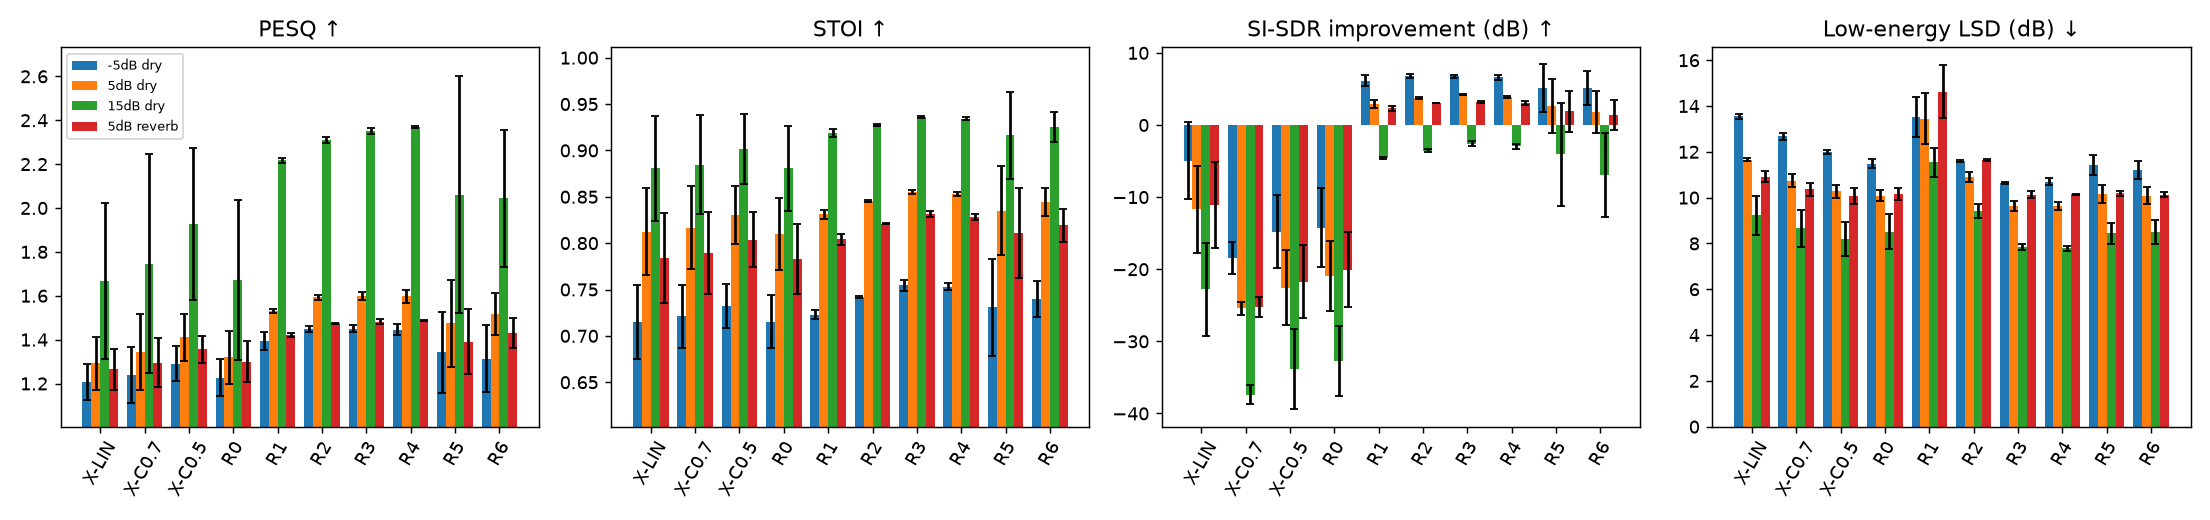
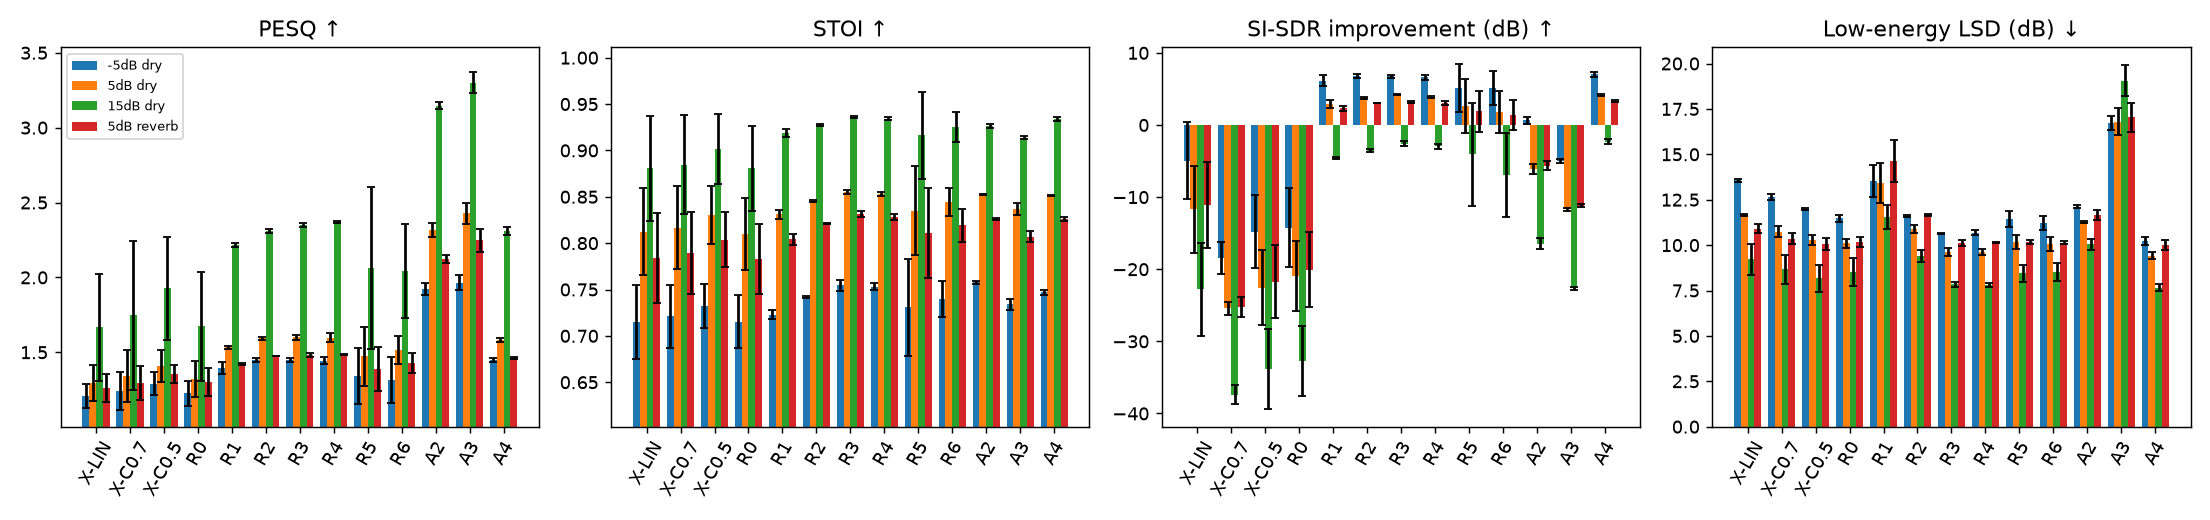
Speech enhancement loss-function evaluation

diff --git a/code/analyze.py b/code/analyze.py
@@ -1,11 +1,13 @@
 import json, glob, os, numpy as np, pandas as pd
 import matplotlib; matplotlib.use("Agg"); import matplotlib.pyplot as plt
 R = os.path.dirname(os.path.dirname(os.path.abspath(__file__))) + "/results"
-ORDER = ["X-LIN", "X-C0.7", "X-C0.5", "R0", "R1", "R2", "R3", "R4", "R5", "R6"]
+ORDER = ["X-LIN", "X-C0.7", "X-C0.5", "R0", "R1", "R2", "R3", "R4", "R5", "R6", "A2", "A3", "A4"]
 DESC = {"X-LIN": "linear magnitude MSE", "X-C0.7": "compressed mag c=0.7", "X-C0.5": "compressed mag c=0.5",
         "R0": "compressed mag c=0.3", "R1": "R0 + compressed complex", "R2": "R1 + multi-res (5/10/20/40ms)",
         "R3": "R2 + over-suppression pen.", "R4": "R3 + loudness (A-wt) weighting", "R5": "R3 + SI-SNR",
-        "R6": "R3 + loudness + SI-SNR"}
+        "R6": "R3 + loudness + SI-SNR",
+        "A2": "R3 + diff. PESQ (w=0.1) [A1+PESQ low]", "A3": "R3 + diff. PESQ (w=1.0) [A1+PESQ high]",
+        "A4": "R3 + MetricGAN PESQ disc. (w=0.05)"}
 MET = ["PESQ", "PESQ_in", "STOI", "STOI_in", "SI-SDRi", "LE-LSD", "LE-LSD_in"]
 rows = []
 for f in sorted(glob.glob(R + "/runs/*.json")):
@@ -46,7 +48,19 @@ for l in ORDER:
             s = max(g.loc[(l, c), (m, "std")], g.loc[("R0", c), (m, "std")])
             cells.append(f"{d:+.2f}{' *' if abs(d) > 2 * s else ''}")
     md.append(f"| {l} | " + " | ".join(cells) + " |")
-md.append("\n`*` = exceeds 2× seed std.")
+md.append("\n## PESQ-loss arms (Section 4.8): difference vs. R3 (= A1, no PESQ term)\n")
+md.append("A0 = R1, A1 = R3. Hypotheses: H1 PESQ rises; H2 SI-SDRi and low-energy retention fall as PESQ weight rises.\n")
+md.append("| Arm | " + " | ".join(f"{c} ΔPESQ" for c in conds) + " | " + " | ".join(f"{c} ΔSI-SDRi" for c in conds) + " | " + " | ".join(f"{c} ΔLE-LSD" for c in conds) + " |\n|---|" + "---|" * (3 * len(conds)))
+for l in ["A2", "A3", "A4"]:
+    if l not in nseed.index: continue
+    cells = []
+    for m in ["PESQ", "SI-SDRi", "LE-LSD"]:
+        for c in conds:
+            d = g.loc[(l, c), (m, "mean")] - g.loc[("R3", c), (m, "mean")]
+            sd = max(g.loc[(l, c), (m, "std")], g.loc[("R3", c), (m, "std")])
+            cells.append(f"{d:+.2f}{' *' if abs(d) > 2 * sd else ''}")
+    md.append(f"| {l} | " + " | ".join(cells) + " |")
+md.append("\n`*` = exceeds 2x the larger seed std (rough screen, n=3).")
 open(R + "/RESULTS.md", "w").write("\n".join(md)); print("\n".join(md))
 
 fig, ax = plt.subplots(1, 4, figsize=(17, 4))

diff --git a/results/RESULTS.md b/results/RESULTS.md
@@ -1,6 +1,6 @@
 # Loss-function evaluation results
 
-Seeds per loss: {'R0': np.int64(3), 'R1': np.int64(3), 'R2': np.int64(3), 'R3': np.int64(3), 'R4': np.int64(3), 'R5': np.int64(3), 'R6': np.int64(3), 'X-C0.5': np.int64(3), 'X-C0.7': np.int64(3), 'X-LIN': np.int64(3)}. Values are mean ± std **across seeds** (each seed's value is the mean over 60 test utterances).
+Seeds per loss: {'A2': np.int64(3), 'A3': np.int64(3), 'A4': np.int64(3), 'R0': np.int64(3), 'R1': np.int64(3), 'R2': np.int64(3), 'R3': np.int64(3), 'R4': np.int64(3), 'R5': np.int64(3), 'R6': np.int64(3), 'X-C0.5': np.int64(3), 'X-C0.7': np.int64(3), 'X-LIN': np.int64(3)}. Values are mean ± std **across seeds** (each seed's value is the mean over 60 test utterances).
 
 Unprocessed input: -5dB dry: PESQ 1.23, STOI 0.735; 5dB dry: PESQ 1.34, STOI 0.852; 15dB dry: PESQ 2.10, STOI 0.948; 5dB reverb: PESQ 1.30, STOI 0.826
 
@@ -15,10 +15,13 @@ Unprocessed input: -5dB dry: PESQ 1.23, STOI 0.735; 5dB dry: PESQ 1.34, STOI 0.8
 | R0 | compressed mag c=0.3 | 1.23 ± 0.08 | 1.32 ± 0.12 | 1.67 ± 0.36 | 1.30 ± 0.09 |
 | R1 | R0 + compressed complex | 1.39 ± 0.04 | 1.53 ± 0.01 | 2.22 ± 0.01 | 1.42 ± 0.01 |
 | R2 | R1 + multi-res (5/10/20/40ms) | 1.45 ± 0.02 | 1.59 ± 0.01 | 2.31 ± 0.01 | 1.47 ± 0.00 |
-| R3 | R2 + over-suppression pen. | **1.45 ± 0.01** | **1.60 ± 0.02** | 2.35 ± 0.01 | 1.48 ± 0.01 |
-| R4 | R3 + loudness (A-wt) weighting | 1.44 ± 0.03 | 1.60 ± 0.03 | **2.37 ± 0.00** | **1.49 ± 0.00** |
+| R3 | R2 + over-suppression pen. | 1.45 ± 0.01 | 1.60 ± 0.02 | 2.35 ± 0.01 | 1.48 ± 0.01 |
+| R4 | R3 + loudness (A-wt) weighting | 1.44 ± 0.03 | 1.60 ± 0.03 | 2.37 ± 0.00 | 1.49 ± 0.00 |
 | R5 | R3 + SI-SNR | 1.34 ± 0.19 | 1.47 ± 0.20 | 2.06 ± 0.54 | 1.39 ± 0.15 |
 | R6 | R3 + loudness + SI-SNR | 1.31 ± 0.15 | 1.52 ± 0.09 | 2.04 ± 0.31 | 1.43 ± 0.07 |
+| A2 | R3 + diff. PESQ (w=0.1) [A1+PESQ low] | 1.92 ± 0.04 | 2.32 ± 0.05 | 3.15 ± 0.02 | 2.12 ± 0.02 |
+| A3 | R3 + diff. PESQ (w=1.0) [A1+PESQ high] | **1.97 ± 0.05** | **2.43 ± 0.07** | **3.30 ± 0.07** | **2.25 ± 0.08** |
+| A4 | R3 + MetricGAN PESQ disc. (w=0.05) | 1.45 ± 0.01 | 1.58 ± 0.01 | 2.31 ± 0.02 | 1.46 ± 0.01 |
 
 ## STOI (higher better)
 
@@ -30,10 +33,13 @@ Unprocessed input: -5dB dry: PESQ 1.23, STOI 0.735; 5dB dry: PESQ 1.34, STOI 0.8
 | R0 | compressed mag c=0.3 | 0.715 ± 0.029 | 0.810 ± 0.039 | 0.881 ± 0.046 | 0.783 ± 0.038 |
 | R1 | R0 + compressed complex | 0.723 ± 0.005 | 0.831 ± 0.005 | 0.919 ± 0.004 | 0.804 ± 0.006 |
 | R2 | R1 + multi-res (5/10/20/40ms) | 0.742 ± 0.001 | 0.846 ± 0.001 | 0.927 ± 0.001 | 0.821 ± 0.001 |
-| R3 | R2 + over-suppression pen. | **0.755 ± 0.006** | **0.855 ± 0.002** | **0.936 ± 0.001** | **0.831 ± 0.003** |
+| R3 | R2 + over-suppression pen. | 0.755 ± 0.006 | **0.855 ± 0.002** | **0.936 ± 0.001** | **0.831 ± 0.003** |
 | R4 | R3 + loudness (A-wt) weighting | 0.753 ± 0.004 | 0.853 ± 0.002 | 0.934 ± 0.002 | 0.828 ± 0.003 |
 | R5 | R3 + SI-SNR | 0.731 ± 0.052 | 0.835 ± 0.048 | 0.916 ± 0.047 | 0.811 ± 0.048 |
 | R6 | R3 + loudness + SI-SNR | 0.740 ± 0.019 | 0.845 ± 0.015 | 0.925 ± 0.016 | 0.819 ± 0.018 |
+| A2 | R3 + diff. PESQ (w=0.1) [A1+PESQ low] | **0.758 ± 0.001** | 0.853 ± 0.001 | 0.926 ± 0.002 | 0.826 ± 0.001 |
+| A3 | R3 + diff. PESQ (w=1.0) [A1+PESQ high] | 0.734 ± 0.006 | 0.837 ± 0.007 | 0.914 ± 0.001 | 0.807 ± 0.006 |
+| A4 | R3 + MetricGAN PESQ disc. (w=0.05) | 0.747 ± 0.003 | 0.851 ± 0.001 | 0.934 ± 0.002 | 0.826 ± 0.002 |
 
 ## SI-SDR improvement dB (higher better)
 
@@ -44,11 +50,14 @@ Unprocessed input: -5dB dry: PESQ 1.23, STOI 0.735; 5dB dry: PESQ 1.34, STOI 0.8
 | X-C0.5 | compressed mag c=0.5 | -14.80 ± 5.04 | -22.54 ± 5.21 | -33.88 ± 5.56 | -21.70 ± 5.07 |
 | R0 | compressed mag c=0.3 | -14.22 ± 5.45 | -20.93 ± 4.89 | -32.77 ± 4.85 | -20.05 ± 5.20 |
 | R1 | R0 + compressed complex | 6.16 ± 0.72 | 2.88 ± 0.58 | -4.63 ± 0.14 | 2.30 ± 0.40 |
-| R2 | R1 + multi-res (5/10/20/40ms) | **6.80 ± 0.26** | 3.78 ± 0.16 | -3.58 ± 0.20 | 3.03 ± 0.05 |
-| R3 | R2 + over-suppression pen. | 6.77 ± 0.20 | **4.18 ± 0.08** | **-2.57 ± 0.36** | **3.19 ± 0.13** |
+| R2 | R1 + multi-res (5/10/20/40ms) | 6.80 ± 0.26 | 3.78 ± 0.16 | -3.58 ± 0.20 | 3.03 ± 0.05 |
+| R3 | R2 + over-suppression pen. | 6.77 ± 0.20 | **4.18 ± 0.08** | -2.57 ± 0.36 | 3.19 ± 0.13 |
 | R4 | R3 + loudness (A-wt) weighting | 6.60 ± 0.31 | 3.87 ± 0.12 | -2.95 ± 0.31 | 3.09 ± 0.26 |
 | R5 | R3 + SI-SNR | 5.09 ± 3.30 | 2.66 ± 3.71 | -4.07 ± 7.14 | 1.91 ± 2.87 |
 | R6 | R3 + loudness + SI-SNR | 5.14 ± 2.40 | 1.82 ± 2.94 | -6.93 ± 5.82 | 1.36 ± 2.08 |
+| A2 | R3 + diff. PESQ (w=0.1) [A1+PESQ low] | 0.62 ± 0.42 | -6.05 ± 0.68 | -16.45 ± 0.81 | -5.63 ± 0.66 |
+| A3 | R3 + diff. PESQ (w=1.0) [A1+PESQ high] | -5.00 ± 0.29 | -11.72 ± 0.24 | -22.61 ± 0.21 | -11.22 ± 0.20 |
+| A4 | R3 + MetricGAN PESQ disc. (w=0.05) | **7.00 ± 0.36** | 4.18 ± 0.14 | **-2.31 ± 0.31** | **3.27 ± 0.13** |
 
 ## Low-energy log-spectral distortion dB (LOWER better)
 
@@ -56,14 +65,17 @@ Unprocessed input: -5dB dry: PESQ 1.23, STOI 0.735; 5dB dry: PESQ 1.34, STOI 0.8
 |---|---|---|---|---|---|
 | X-LIN | linear magnitude MSE | 13.56 ± 0.11 | 11.66 ± 0.06 | 9.22 ± 0.86 | 10.91 ± 0.24 |
 | X-C0.7 | compressed mag c=0.7 | 12.67 ± 0.17 | 10.74 ± 0.29 | 8.66 ± 0.81 | 10.36 ± 0.29 |
-| X-C0.5 | compressed mag c=0.5 | 11.99 ± 0.08 | 10.27 ± 0.29 | 8.18 ± 0.74 | **10.05 ± 0.35** |
+| X-C0.5 | compressed mag c=0.5 | 11.99 ± 0.08 | 10.27 ± 0.29 | 8.18 ± 0.74 | 10.05 ± 0.35 |
 | R0 | compressed mag c=0.3 | 11.49 ± 0.19 | 10.09 ± 0.25 | 8.52 ± 0.78 | 10.16 ± 0.27 |
 | R1 | R0 + compressed complex | 13.54 ± 0.88 | 13.44 ± 1.10 | 11.54 ± 0.65 | 14.63 ± 1.15 |
 | R2 | R1 + multi-res (5/10/20/40ms) | 11.59 ± 0.06 | 10.89 ± 0.22 | 9.42 ± 0.32 | 11.64 ± 0.06 |
-| R3 | R2 + over-suppression pen. | **10.64 ± 0.04** | **9.63 ± 0.23** | 7.83 ± 0.13 | 10.12 ± 0.15 |
-| R4 | R3 + loudness (A-wt) weighting | 10.69 ± 0.16 | 9.63 ± 0.18 | **7.79 ± 0.11** | 10.14 ± 0.03 |
+| R3 | R2 + over-suppression pen. | 10.64 ± 0.04 | 9.63 ± 0.23 | 7.83 ± 0.13 | 10.12 ± 0.15 |
+| R4 | R3 + loudness (A-wt) weighting | 10.69 ± 0.16 | 9.63 ± 0.18 | 7.79 ± 0.11 | 10.14 ± 0.03 |
 | R5 | R3 + SI-SNR | 11.43 ± 0.45 | 10.16 ± 0.39 | 8.44 ± 0.47 | 10.18 ± 0.11 |
 | R6 | R3 + loudness + SI-SNR | 11.20 ± 0.39 | 10.07 ± 0.37 | 8.52 ± 0.52 | 10.14 ± 0.09 |
+| A2 | R3 + diff. PESQ (w=0.1) [A1+PESQ low] | 12.12 ± 0.08 | 11.28 ± 0.08 | 10.05 ± 0.30 | 11.64 ± 0.27 |
+| A3 | R3 + diff. PESQ (w=1.0) [A1+PESQ high] | 16.73 ± 0.38 | 16.79 ± 0.74 | 19.05 ± 0.85 | 17.04 ± 0.80 |
+| A4 | R3 + MetricGAN PESQ disc. (w=0.05) | **10.22 ± 0.20** | **9.43 ± 0.21** | **7.65 ± 0.20** | **10.02 ± 0.28** |
 
 ## Difference vs. R0 (compressed magnitude), in units of seed-to-seed std
 
@@ -80,5 +92,18 @@ A difference is only treated as real if |Δ| > 2× the larger of the two seed st
 | R4 | +0.22 * | +0.28 * | +0.70 | +0.19 * | +20.82 * | +24.81 * | +29.81 * | +23.14 * |
 | R5 | +0.12 | +0.15 | +0.39 | +0.09 | +19.32 * | +23.60 * | +28.69 * | +21.97 * |
 | R6 | +0.09 | +0.20 | +0.37 | +0.13 | +19.36 * | +22.76 * | +25.83 * | +21.42 * |
+| A2 | +0.70 * | +1.00 * | +1.47 * | +0.82 * | +14.85 * | +14.88 * | +16.31 * | +14.43 * |
+| A3 | +0.74 * | +1.11 * | +1.63 * | +0.95 * | +9.22 | +9.22 | +10.15 * | +8.84 |
+| A4 | +0.22 * | +0.26 * | +0.64 | +0.16 | +21.23 * | +25.11 * | +30.46 * | +23.33 * |
 
-`*` = exceeds 2× seed std.
+## PESQ-loss arms (Section 4.8): difference vs. R3 (= A1, no PESQ term)
+
+A0 = R1, A1 = R3. Hypotheses: H1 PESQ rises; H2 SI-SDRi and low-energy retention fall as PESQ weight rises.
+
+| Arm | -5dB dry ΔPESQ | 5dB dry ΔPESQ | 15dB dry ΔPESQ | 5dB reverb ΔPESQ | -5dB dry ΔSI-SDRi | 5dB dry ΔSI-SDRi | 15dB dry ΔSI-SDRi | 5dB reverb ΔSI-SDRi | -5dB dry ΔLE-LSD | 5dB dry ΔLE-LSD | 15dB dry ΔLE-LSD | 5dB reverb ΔLE-LSD |
+|---|---|---|---|---|---|---|---|---|---|---|---|---|
+| A2 | +0.47 * | +0.72 * | +0.79 * | +0.64 * | -6.14 * | -10.24 * | -13.88 * | -8.82 * | +1.48 * | +1.65 * | +2.21 * | +1.52 * |
+| A3 | +0.52 * | +0.83 * | +0.95 * | +0.77 * | -11.77 * | -15.90 * | -20.04 * | -14.41 * | +6.09 * | +7.16 * | +11.22 * | +6.92 * |
+| A4 | -0.00 | -0.02 | -0.04 | -0.02 | +0.24 | -0.01 | +0.26 | +0.08 | -0.42 * | -0.20 | -0.19 | -0.10 |
+
+`*` = exceeds 2x the larger seed std (rough screen, n=3).

diff --git a/results/REPORT.md b/results/REPORT.md
@@ -26,11 +26,20 @@ Based on the loss-function ladder (Approach 6, §4.9) of *SE_Research_Report_Ras
 
 R0–R6 follow the report's Table 5. The X-* rows come from the report's Table 4 but were not run in the report. The report also ran each loss only once, which left run-to-run noise unmeasured. This study uses 3 seeds per loss.
 
+A second experiment covers the report's §4.8, **PESQ as a training loss**. The report cites work finding that PESQ-based losses mainly raise PESQ itself while lowering fidelity, and it leaves open whether this holds for a tiny model. Three arms were added on top of R3 (the best ladder loss, called A1 in the report; A0 is R1):
+
+| Arm | Loss | PESQ term |
+|---|---|---|
+| A2 | R3 + differentiable PESQ (`torch-pesq`) | weight 0.1 (low) |
+| A3 | R3 + differentiable PESQ | weight 1.0 (high) |
+| A4 | R3 + MetricGAN-style discriminator that learns real PESQ | weight 0.05 |
+
 The study asks four questions:
 1. Does each added term improve quality at low SNR, with reverb, and for weak speech?
 2. Which terms help and which don't?
 3. Are the differences larger than random run-to-run variation?
 4. Does optimising for waveform fidelity (SI-SNR) help or hurt?
+5. Does training directly on a PESQ term raise real PESQ, and at what cost to fidelity and weak speech?
 
 ---
 
@@ -90,7 +99,7 @@ ESC-50 noise is non-stationary (dog barks, door knocks, rain), which suits the r
 | Structure | 3 causal conv blocks (16 channels) → 1 GRU (48 units) → 3 transposed convs with skips → bounded complex mask |
 | Features | STFT with 20 ms window, 10 ms hop (161 bins), compressed complex spectrum as input |
 | Training | 1,200 steps, batch 12 × 3 s, Adam with one-cycle schedule |
-| Seeds | 3 per loss (30 runs in total) |
+| Seeds | 3 per loss (39 runs in total: 30 for the ladder, 9 for the PESQ arms) |
 | Compute | laptop CPU |
 
 Only the loss changes between runs. Architecture, data, schedule and seeds are identical.
@@ -121,6 +130,19 @@ Mean over 3 seeds ± seed std. Full tables are in `RESULTS.md`.
 
 (A full chart is in `loss_comparison.png`.)
 
+### 4b. PESQ as a training loss (§4.8)
+
+Evaluation uses the standard `pesq` package, not the differentiable surrogate used in training, so the PESQ gains below are real PESQ gains. Mean ± seed std at 5 dB dry (other conditions show the same pattern):
+
+| Arm | PESQ | STOI | SI-SDRi (dB) | Low-energy LSD (dB, lower is better) |
+|---|---|---|---|---|
+| A1 = R3 (no PESQ term) | 1.60 ± 0.02 | 0.855 ± 0.002 | +4.18 ± 0.08 | 9.63 ± 0.23 |
+| A2 (PESQ, low weight) | 2.32 ± 0.05 | 0.853 ± 0.001 | -6.05 ± 0.68 | 11.28 ± 0.08 |
+| A3 (PESQ, high weight) | **2.43 ± 0.07** | 0.837 ± 0.007 | -11.72 ± 0.24 | 16.79 ± 0.74 |
+| A4 (MetricGAN, 0.05) | 1.58 ± 0.01 | 0.851 ± 0.001 | +4.18 ± 0.14 | 9.43 ± 0.21 |
+
+PESQ at -5 dB: R3 1.45, A2 1.92, A3 1.97, A4 1.45. At 15 dB: R3 2.35, A2 3.15, A3 3.30, A4 2.31.
+
 ---
 
 ## 5. What we learned
@@ -141,6 +163,12 @@ Mean over 3 seeds ± seed std. Full tables are in `RESULTS.md`.
 
 8. **Run-to-run variance matters.** The magnitude-only losses and the SI-SNR variants have large seed variation. The report's single-seed design could not have told these cases apart, which supports running multiple seeds.
 
+9. **A direct PESQ term inflates PESQ and pays for it in fidelity (A2, A3).** PESQ rose by 0.5–1.0 over R3 in every condition, far beyond any other change in the study. But SI-SDR improvement fell from +4 dB to -6 dB (low weight) and -12 dB (high weight) at 5 dB SNR, and low-energy distortion worsened from 9.6 dB to 11.3 dB and 16.8 dB. STOI dropped at the high weight. The effect grows with the PESQ weight, which is the dose-response the report predicted. This supports H1 (PESQ rises) and H2 (SI-SDR and low-energy retention fall as the weight rises). The big PESQ gain alongside a large SI-SDR loss means the model learned to produce outputs that PESQ rates highly but that are far from the clean waveform. That is a sign of exploiting the metric, not of better speech.
+
+10. **The MetricGAN discriminator had no measurable effect (A4).** At weight 0.05 it matched R3 on every metric within seed noise. This does not show that MetricGAN losses are harmless. The discriminator was small, trained on only 4 examples per step for 1,200 steps, and weighted weakly, so it may simply not have learned a useful signal.
+
+11. **Decision rule from §4.8.** A PESQ term is adopted only if it wins a listening test, or improves at least two non-PESQ metrics on the mismatched set with an SI-SDR loss under 1 dB. Neither A2 nor A3 comes close (SI-SDR loss of 10–16 dB, and weaker low-energy retention), and A4 changes nothing. So **A1 (R3) stays the final loss**, based on the objective metrics.
+
 ---
 
 ## 6. Limitations and caveats
@@ -150,8 +178,10 @@ Mean over 3 seeds ± seed std. Full tables are in `RESULTS.md`.
 - **Small, partly reused test set:** 60 utterances per condition, from about half the held-out speakers, with the same clean utterances in every condition.
 - **Synthetic reverb and a non-standard dataset:** conclusions may not transfer to real rooms or to VoiceBank+DEMAND and DNS data.
 - **Choices I made without guidance from the report:** loss weights (0.3/0.7 for magnitude and complex, 1:1 for the extra terms, 0.01 for SI-SNR), the A-weighting proxy, and the model's exact layers. Different choices could shift the results.
-- **PESQ-based losses not tested.** The §4.8 PESQ-loss arms (A2–A4) need a differentiable PESQ implementation that isn't available here.
-- **No listening test.** All conclusions rest on objective metrics, which the report itself warns can diverge from listener preference.
+- **PESQ-loss arms are only partly tested.** H1 and H2 were tested. H3 (the PESQ gain shrinks or reverses on mismatched data) was not, because there is no EARS-WHAM or similar set here. My test speakers and noise clips are unseen, but they come from the same corpora. H4 (listeners do not prefer the PESQ arms) needs a listening test, which was not run.
+- **The PESQ weights (0.1 and 1.0) were my choice.** The report does not give them, and the low-weight arm already shows a large fidelity cost, so a still lower weight might behave differently. The surrogate (`torch-pesq`) also produced NaN gradients on some utterances, which I zeroed.
+- **A4 is a light implementation of MetricGAN.** See finding 10.
+- **No listening test.** All conclusions rest on objective metrics, which the report itself warns can diverge from listener preference. The fidelity drop in A2 and A3 is a reason to doubt that the higher PESQ reflects better listening quality, but only a listening test can settle it.
 
 ---
 
@@ -161,14 +191,15 @@ Mean over 3 seeds ± seed std. Full tables are in `RESULTS.md`.
 2. Tune the SI-SNR weight (for example 0.001–0.05) before concluding it hurts.
 3. Rerun on VoiceBank+DEMAND to allow comparison with published results.
 4. Add more seeds and a paired significance test.
-5. Add the PESQ-loss arms from §4.8.
+5. Test the PESQ-loss arms on a mismatched set (for example EARS-WHAM) for H3, and run a listening test for H4.
+6. Try smaller PESQ weights (for example 0.01) and a stronger MetricGAN discriminator, to see whether any PESQ term helps without the fidelity loss.
 
 ---
 
 ## Files
 
 - `code/selib.py`: data, model, losses and metrics
-- `code/run_one.py`, `code/run_all.sh`: training and evaluation
+- `code/run_one.py`, `code/run_all.sh`, `code/run_pesq.sh`: training and evaluation (ladder sweep and PESQ-loss arms)
 - `code/analyze.py`: builds the tables and chart
 - `results/RESULTS.md`: full result tables
 - `results/loss_comparison.png`: chart
